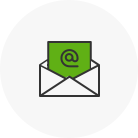
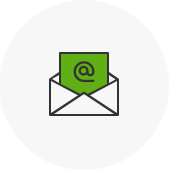
no message

Changed region(s): [[0.2609, 0.2899, 0.7246, 0.7246], [0.4058, 0.3478, 0.5797, 0.4928]]

diff --git a/css/login.css b/css/login.css
@@ -9,7 +9,7 @@
 .join-section .form-item:first-child {margin-top:0;}
 
 .login-global {
-	margin-top:11px;
+	margin:11px 0 11px;
 	text-align: center;
 	line-height: 31px;
 }
@@ -79,6 +79,7 @@
 }
 .send-select {
 	overflow: hidden;
+	margin-top:7px;
 	border:1px solid #bbb;
 	border-radius: 5px;
 }
@@ -93,19 +94,19 @@
 	display: block;
 	width:100%;
 	margin: 0 auto;
-	padding:105px 0 20px;
-	font-size:13px;
+	padding:125px 0 22px;
+	font-size:15px;
 	color:#333;
 	text-align: center;
 }
 .find-sms {
-	background:url(../img/bg/bg_sms.png) 50% 20px no-repeat;
-	background-size:69px;
+	background:url(../img/bg/bg_sms.png) 50% 25px no-repeat;
+	background-size:85px;
 }
 
 .find-email {
-	background:url(../img/bg/bg_email.png) 50% 20px no-repeat;
-	background-size:69px;
+	background:url(../img/bg/bg_email.png) 50% 25px no-repeat;
+	background-size:85px;
 }
 
 .find-ipin {
@@ -118,15 +119,15 @@
 }
 .search-id-link .text {
 	margin-left:6px;
-	font-size:12px;
+	font-size:13px;
 	color:#333;
-	line-height: 25px;
+	line-height: 30px;
 }
 /* --------------------------------------------------------------------------------------------
 	체크박스 wrapper
 -------------------------------------------------------------------------------------------- */
 .check-wrap {
-	margin-top:15px;
+	margin-top:10px;
 }
 .check-wrap label {
 	display: inline-block;
@@ -252,7 +253,7 @@
 .top-info {
 	margin:7px 0 16px;
 	text-align: center;
-	font-size:13px;
+	font-size:16px;
 	color:#666;
 	line-height: 19px;
 	letter-spacing: -0.5px;

diff --git a/im/lo/MW-LO0301.html b/im/lo/MW-LO0301.html
@@ -41,7 +41,7 @@
 						<div class="form-item">
 							<div class="form-button-type1">
 								<input type="tel" placeholder="휴대폰 번호 ( - 생략)" class="text">
-								<button type="button" class="btn-text btn-h35 btn-text-gray1 btn">인증</span>
+								<button type="button" class="btn-text btn-h42 btn-text-gray1 btn">인증</span>
 							</div>
 						</div>
 						<div class="form-item">
@@ -60,7 +60,7 @@
 						<div class="form-item">
 							<div class="form-button-type1">
 								<input type="tel" placeholder="이메일 주소" class="text">
-								<button type="button" class="btn-text btn-h35 btn-text-gray1 btn">인증</span>
+								<button type="button" class="btn-text btn-h42 btn-text-gray1 btn">인증</span>
 							</div>
 						</div>
 						<div class="form-item">
@@ -69,10 +69,10 @@
 					</div>
 				</div>
 			</div>
-			<div class="btn-area">
+			<div class="btn-area mgT20">
 				<button type="button" class="btn-text btn-h55 btn-text-green1">비밀번호 초기화</button>
 				<div class="search-id-link">
-					<a href="#" class="btn-text btn-h25 btn-text-line1">아이디 찾기</a>
+					<a href="#" class="btn-text btn-h30 btn-text-line1">아이디 찾기</a>
 					<span class="text">아이디가 기억이 안나신다면?</span>
 				</div>
 			</div>

diff --git a/im/lo/MW-LO0201.html b/im/lo/MW-LO0201.html
@@ -38,7 +38,7 @@
 						<div class="form-item">
 							<div class="form-button-type1">
 								<input type="tel" placeholder="휴대폰 번호 ( - 생략)" class="text">
-								<button type="button" class="btn-text btn-h35 btn-text-gray1 btn">인증</span>
+								<button type="button" class="btn-text btn-h42 btn-text-gray1 btn">인증</span>
 							</div>
 						</div>
 						<div class="form-item">
@@ -54,7 +54,7 @@
 						<div class="form-item">
 							<div class="form-button-type1">
 								<input type="tel" placeholder="이메일 주소" class="text">
-								<button type="button" class="btn-text btn-h35 btn-text-gray1 btn">인증</span>
+								<button type="button" class="btn-text btn-h42 btn-text-gray1 btn">인증</span>
 							</div>
 						</div>
 						<div class="form-item">
@@ -63,7 +63,7 @@
 					</div>
 				</div>
 			</div>
-			<div class="btn-area">
+			<div class="btn-area mgT20">
 				<button type="button" class="btn-text btn-h55 btn-text-green1">아이디 찾기</button>
 			</div>
 			<div class="box-content1 mgT20">

diff --git a/im/lo/MW-LO0201_result.html b/im/lo/MW-LO0201_result.html
@@ -28,7 +28,7 @@
 			<div class="title-box">
 				<h3 class="cTitle01">조합원 정보 인증으로 찾기</h3>
 			</div>
-			<ul class="result-info">
+			<ul class="result-info mgT5">
 				<li>
 					<dl>
 						<dt>소속 한살림</dt>
@@ -49,7 +49,7 @@
 				</li>
 			</ul>
 
-			<div class="btn-area">
+			<div class="btn-area mgT20">
 				<ul class="btn-list1">
 					<li class="item"><button type="button" class="btn-text btn-h55 btn-text-green1">로그인</button></li>
 					<li class="item"><button type="button" class="btn-text btn-h55 btn-text-line1">비밀번호 찾기</button></li>

diff --git a/im/lo/MW-LO0401.html b/im/lo/MW-LO0401.html
@@ -27,7 +27,7 @@
 					<input type="tel" placeholder="조합원번호">
 				</div>
 			</div>
-			<div class="btn-area">
+			<div class="btn-area mgT20">
 				<ul class="btn-list1">
 					<li class="item"><button type="button" class="btn-text btn-h55 btn-text-green1">휴대폰 본인인증</button></li>
 					<li class="item"><button type="button" class="btn-text btn-h55 btn-text-gray2">아이핀 인증</button></li>

diff --git a/im/lo/MW-LO0101.html b/im/lo/MW-LO0101.html
@@ -30,7 +30,7 @@
 					<label><input type="checkbox" class="styled1">자동로그인</label>
 					<label><input type="checkbox" class="styled1">아이디저장</label>
 				</div>
-				<div class="btn-area">
+				<div class="btn-area mgT20">
 					<button type="button" class="btn-text btn-h55 btn-text-green1">로그인</button>
 				</div>
 				<div class="login-global">

diff --git a/im/lo/MW-LO0302.html b/im/lo/MW-LO0302.html
@@ -36,7 +36,7 @@
 					<button type="button" class="find-email find-btn">이메일 전송</button>
 				</li>
 			</ul>
-			<div class="btn-area">
+			<div class="btn-area mgT20">
 				<button type="button" class="btn-text btn-h55 btn-text-green1">로그인</button>
 			</div>
 			<div class="box-content1 mgT20">

diff --git a/css/common.css b/css/common.css
@@ -901,7 +901,7 @@ select.styled1 {
 
 /* 폼리스트 01 */
 .form-list1 {}
-.form-list1 .form-item {margin-top:5px;}
+.form-list1 .form-item {margin-top:6px;}
 .form-list1 .form-item:first-child {margin-top:0;}
 .form-list1 .btn-list1 {margin-top:20px;}
 
